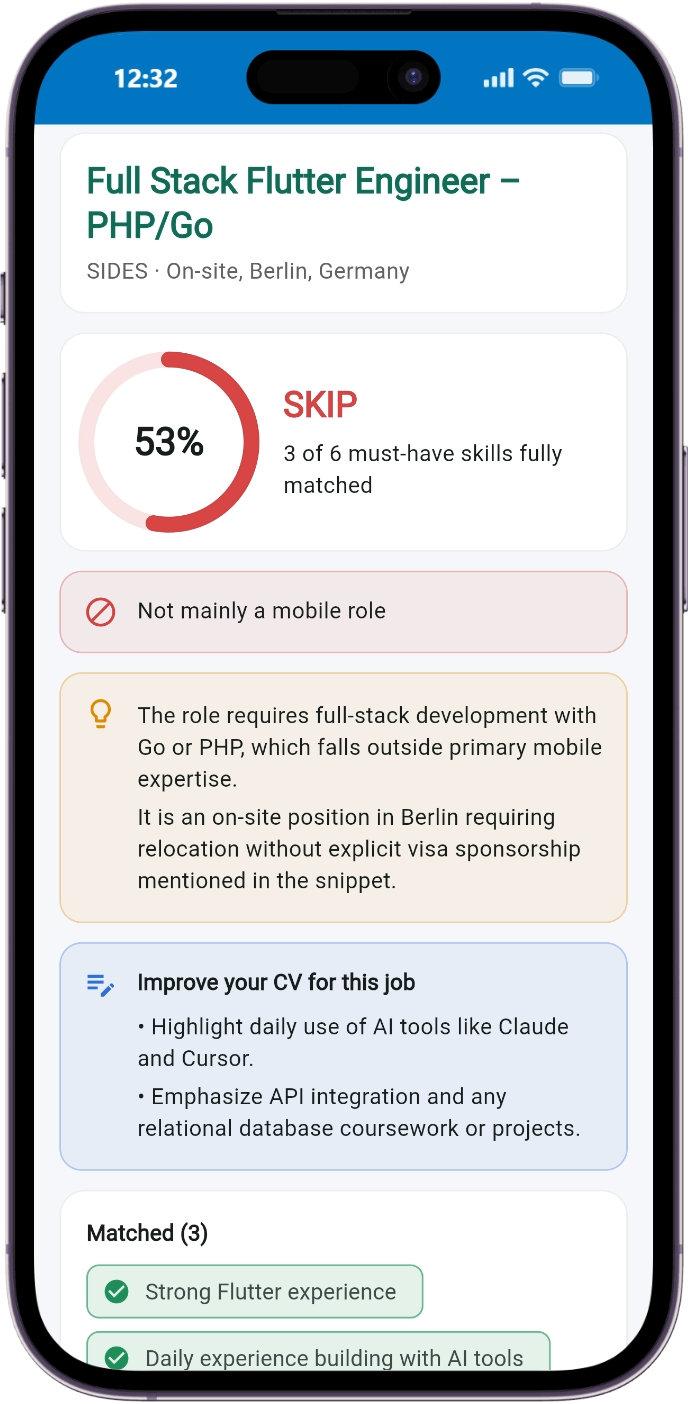
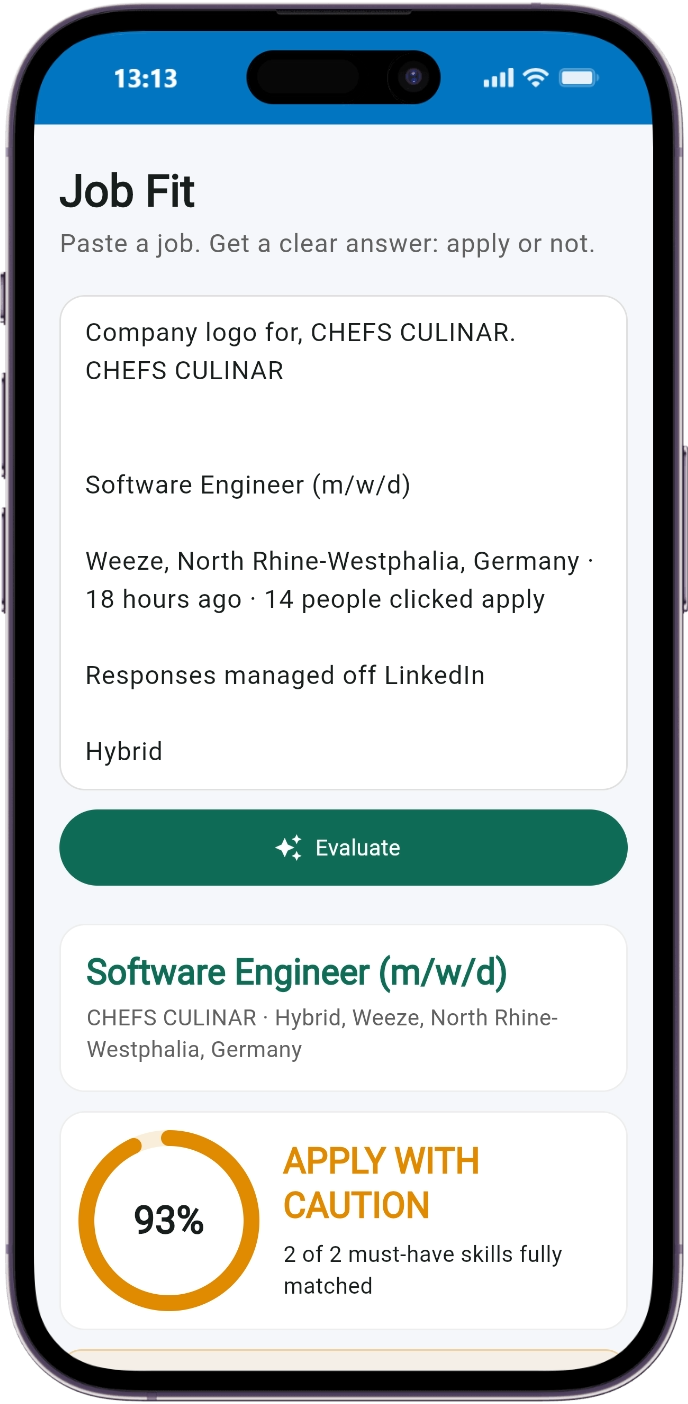
Update README screenshots

diff --git a/README.md b/README.md
@@ -7,9 +7,10 @@ Job Fit compares a job ad with my CV, like an ATS check. It shows a match score,
 **Live demo:** https://abir739.github.io/job-fit/
 
 <p align="center">
-  <img src="docs/screenshots/home.png" width="30%" alt="Paste a job description; history below">
-  <img src="docs/screenshots/result.png" width="30%" alt="Match score, verdict, reasons and CV tips">
-  <img src="docs/screenshots/skills-history.png" width="30%" alt="Matched, partial and missing skills, and the history tracker">
+  <img src="docs/screenshots/home.png" width="24%" alt="Paste a job description; history below">
+  <img src="docs/screenshots/result.png" width="24%" alt="Match score and verdict">
+  <img src="docs/screenshots/skills.png" width="24%" alt="CV tips and matched / partial skills">
+  <img src="docs/screenshots/cover-letter.png" width="24%" alt="Generated cover letter with copy button">
 </p>
 
 ## Features
